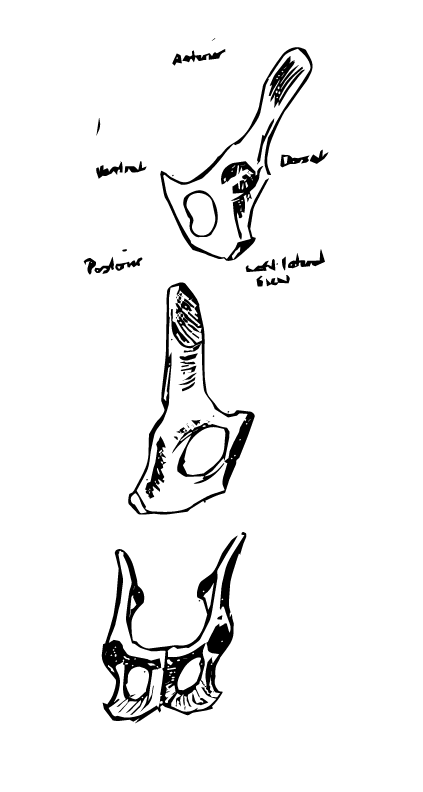
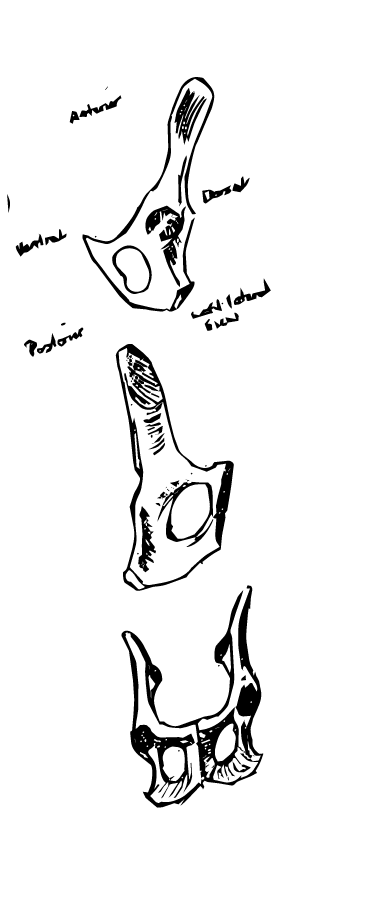
5555555

diff --git a/css/mobile.css b/css/mobile.css
@@ -787,7 +787,7 @@ main {
 
 .catelier-05 {
   right: calc(142.193 / 440 * 100%);
-  top: calc(570.1084 / 956 * 100%);
+  bottom: calc(591.5218 / 956 * 100%);
   width: calc(116.1864 / 440 * 100%);
 
 
@@ -814,7 +814,7 @@ main {
 
 .catelier-07 {
   right: calc(164.0771 / 440 * 100%);
-  top: calc(408.118 / 956 * 100%);
+  bottom: calc(458.7973 / 956 * 100%);
   width: calc(35.1199 / 440 * 100%);
 
 }
@@ -826,7 +826,7 @@ main {
    ========================================================= */
 
 .catelier-08 {
-  left: calc(38.3278 / 440 * 100%);
+  left: calc(120.9806 / 440 * 100%);
   bottom: calc(428.6781 / 956 * 100%);
   width: calc(145.684 / 440 * 100%);
 
@@ -839,9 +839,9 @@ main {
    ========================================================= */
 
 .catelier-09 {
-  right: calc(11 / 440 * 100%);
-  top: calc(560.6602 / 956 * 100%);
-  width: calc(66.0525 / 440 * 100%);
+  left: calc(20.5319 / 440 * 100%);
+  bottom: calc(564.8125 / 956 * 100%);
+  width: calc(118.7251 / 440 * 100%);
 
   mix-blend-mode: multiply;
 }
@@ -865,7 +865,7 @@ main {
    ========================================================= */
 
 .catelier-11 {
-  left: calc(11 / 440 * 100%);
+  left: calc(0 / 440 * 100%);
   top: calc(480.476 / 956 * 100%);
   width: calc(168.187 / 440 * 100%);
 
@@ -917,7 +917,7 @@ main {
 
 .catelier-title {
   left: calc(297.532 / 440 * 100%);
-  top: calc(827.411 / 956 * 100%);
+  bottom: calc(92.226 / 956 * 100%);
   width: calc(111 / 440 * 100%);
 
 }
